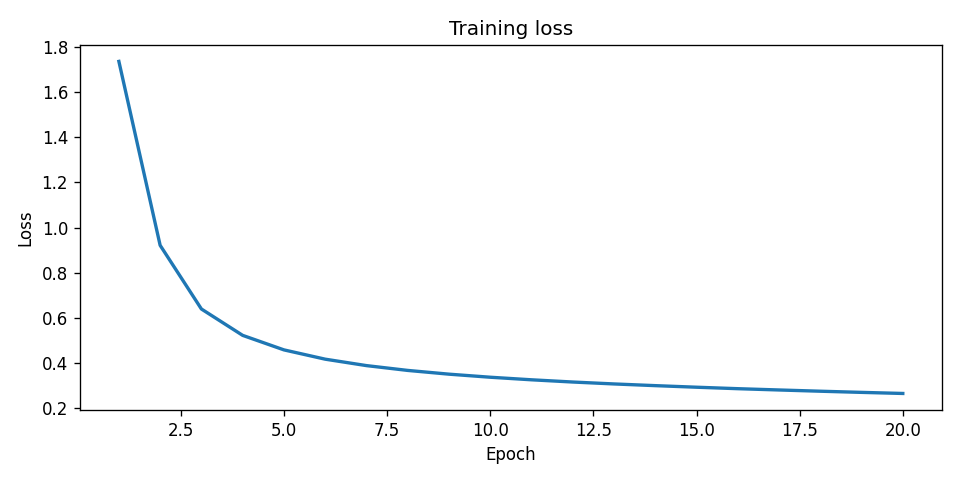
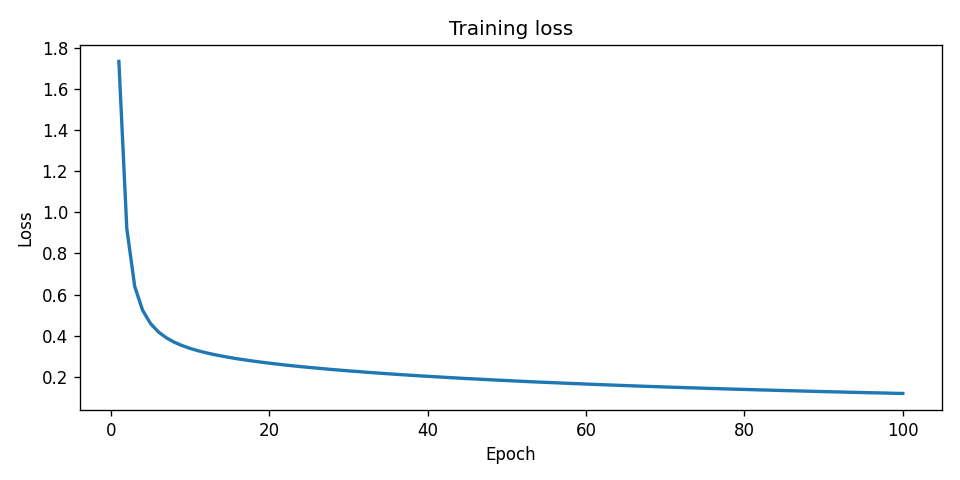
Phase 8: add evaluate() and hit 96.19% test accuracy
- evaluate(network, X, y_onehot): argmax predictions vs labels, returns
  accuracy as a float
- extended training to 100 epochs (batch_size=64, lr=0.1)
- loss curve updated to 100 epochs

Results:
  epoch 50  | loss: 0.1810
  epoch 100 | loss: 0.1182
  test accuracy: 96.19% on 10,000 MNIST samples (target was ≥ 95%)

diff --git a/train.py b/train.py
@@ -36,14 +36,25 @@ def train(network, X, y_onehot, epochs, batch_size, lr):
     return loss_history
 
 
+def evaluate(network, X, y_onehot):
+    probs = network.forward(X)
+    preds = np.argmax(probs, axis=1)
+    labels = np.argmax(y_onehot, axis=1)
+    return np.mean(preds == labels)
+
+
 if __name__ == "__main__":
     np.random.seed(0)
 
-    X_train, y_train, _, _ = load_mnist()
+    X_train, y_train, X_test, y_test = load_mnist()
     y_train_oh = one_hot(y_train)
+    y_test_oh = one_hot(y_test)
 
     net = Network([784, 128, 64, 10])
-    history = train(net, X_train, y_train_oh, epochs=20, batch_size=64, lr=0.1)
+    history = train(net, X_train, y_train_oh, epochs=100, batch_size=64, lr=0.1)
+
+    test_acc = evaluate(net, X_test, y_test_oh)
+    print(f"\nTest accuracy: {test_acc * 100:.2f}%")
 
     plt.figure(figsize=(8, 4))
     plt.plot(range(1, len(history) + 1), history, linewidth=2)
